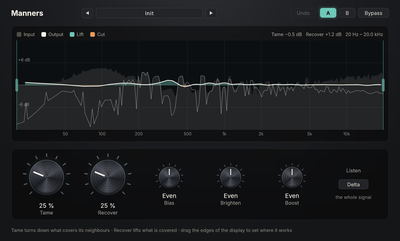
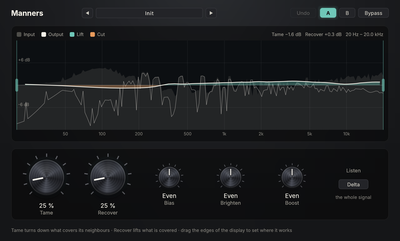
Manners: refitted to the nine reference passes (0.85 dB RMS)
Thirty constants, the target curves among them, against Tame and Recover at
100 % and 200 %, both at 50 %, and Tame 100 % with Bias and with Brighten at
each end. Every pass is within 1 dB but the two Brighten ones (1.2 and
1.3 dB). The tuning guide says which passes are in the fit and which are
still wanted.

Claude-Session: https://claude.ai/code/session_01ToH89CUNpeQcemYPFm7kHZ

diff --git a/crates/dsp/src/plugins/fs/manners/manners_dsp.rs b/crates/dsp/src/plugins/fs/manners/manners_dsp.rs
@@ -121,10 +121,10 @@ pub const TARGET_POINTS: usize = 8;
 pub const TARGET_HZ: [f32; TARGET_POINTS] = [40.0, 80.0, 160.0, 400.0, 1_000.0, 4_000.0, 10_000.0, 16_000.0];
 
 impl Default for Tuning {
-    /// Fitted to reference bounces of the probe (`docs/manners-tuning.md`): 1.05 dB RMS from the
+    /// Fitted to reference bounces of the probe (`docs/manners-tuning.md`): 0.85 dB RMS from the
     /// reference over every moment and third octave of nine passes. Tame and Recover at 100 %
     /// and 200 %, both at 50 %, and Tame 100 % with Bias at each end are each within 1 dB;
-    /// Brighten is the loosest (1.3 dB at its top, 2.2 dB at its bottom). Boost was in no pass
+    /// Brighten is the loosest (1.2 dB at its top, 1.3 dB at its bottom). Boost was in no pass
     /// and is as first written; Bias and Brighten were only passed with Tame alone.
     fn default() -> Self {
         Tuning {
@@ -139,33 +139,33 @@ impl Default for Tuning {
             tame_ratio: 0.16,
             recover_ratio: 0.053,
             knee_db: 1.5,
-            max_cut_db: 5.0,
-            max_boost_db: 7.6,
+            max_cut_db: 5.25,
+            max_boost_db: 9.1,
             bias_db: 18.2,
             floor_db: -46.0,
             floor_fade_db: 12.0,
             abs_floor_db: -84.0,
             smooth_passes: 2,
-            level_comp: 0.64,
-            brighten_db: 6.2,
+            level_comp: 0.665,
+            brighten_db: 6.35,
             boost_db: 4.0,
-            knob_power: 0.66,
-            brighten_down_db: 17.1,
-            brighten_hz: 1_364.0,
-            brighten_width_oct: 2.16,
-            top_hz: 13_500.0,
+            knob_power: 0.63,
+            brighten_down_db: 18.8,
+            brighten_hz: 1_429.0,
+            brighten_width_oct: 2.5,
+            top_hz: 13_170.0,
             peak_threshold_db: 16.6,
             peak_ratio: 0.68,
             // The fit asks for more than this; 12 dB is as far as an automatic cut should go.
             peak_max_db: 12.0,
             broad_width_erb: 0.71,
-            tame_broad: 0.33,
-            recover_broad: 0.25,
-            tame_level: 0.3,
-            recover_level: 3.2,
-            level_ref_db: -11.7,
-            tame_target: [-6.95, -11.3, -4.3, -0.3, 0.25, -1.3, -6.05, -10.95],
-            recover_target: [6.1, 11.95, 4.75, -1.2, -2.0, -0.25, 0.35, 8.6],
+            tame_broad: 0.35,
+            recover_broad: 0.24,
+            tame_level: 0.6,
+            recover_level: 2.8,
+            level_ref_db: -11.5,
+            tame_target: [-5.7, -10.55, -4.05, -0.05, 1.75, -1.3, -5.05, -14.95],
+            recover_target: [5.85, 12.45, 4.5, -0.2, -2.0, -0.25, -0.65, 15.85],
         }
     }
 }

diff --git a/docs/manners-tuning.md b/docs/manners-tuning.md
@@ -28,11 +28,12 @@ changing those defaults.
 
    | Pass | Tells us |
    |---|---|
-   | Tame 100 % | how hard and how wide Tame cuts |
-   | Recover 100 % | the same for Recover, and where it stops lifting |
-   | Tame 50 %, Recover 50 % | how the two share the work, and how linear the knobs are |
-   | Tame 50 %, Recover 50 %, Bias at each end | what Bias moves |
-   | Brighten at each end, then Boost at each end | the tilts |
+   | Tame 100 %, then 200 % | how hard and how wide Tame cuts, and the knob's law |
+   | Recover 100 %, then 200 % | the same for Recover, and where it stops lifting |
+   | Tame 50 %, Recover 50 % | how the two share the work |
+   | Tame 100 % with Bias at each end | what Bias moves |
+   | Tame 100 % with Brighten at each end | the tilt |
+   | Recover 100 % with Bias at each end; Brighten and Boost at each end with Tame at 0 % | not yet passed: whether Bias mirrors for Recover, whether the tilts need Tame, and Boost at all |
 
    Put the settings in the file names.
 
@@ -55,7 +56,9 @@ changing those defaults.
        ref_tame100.wav@tame=100 ref_recover100.wav@recover=100 ref_t50_r50.wav@tame=50,recover=50
    ```
 
-   Coordinate descent over the `Tuning` fields (about three minutes per pass given). It prints
+   Coordinate descent over the `Tuning` fields, the passes rendered in parallel (all of them
+   over nine passes takes about an hour; `MANNERS_FIT_ONLY=a,b,c` moves just the named fields).
+   It prints
    the fitted `Tuning`; copy the values into `Tuning::default`, then run
    `cargo test -p soundcraft-dsp --lib manners` (the tests hold the behaviour that must survive a
    retune: a pure delay at rest, no flutter on steady noise, the floor left alone, level kept).
@@ -72,3 +75,13 @@ cargo run --release -p soundcraft-dsp --example manners_tune -- render mix.wav o
 
 Any `Tuning` field can be given the same way (`slope_up_db=14`), so a constant can be auditioned
 without rebuilding.
+
+## Where it stands
+
+`Tuning::default` is fitted to nine reference passes (the first seven rows above): 0.85 dB RMS
+from the reference over every moment and third octave, each pass within 1 dB but the two
+Brighten ones (1.2 and 1.3 dB). What the fit could not do with constants became part of the
+model: the broad balance with a target each for Tame and Recover, the targets leaning out as
+the signal gets quieter, a narrow cut of its own for a standalone peak, the knobs' power law
+(they reach 200 %), Bias raising the bar for one side only, Brighten as a turning tilt that
+darkens further than it brightens, and everything fading out above about 13 kHz.
